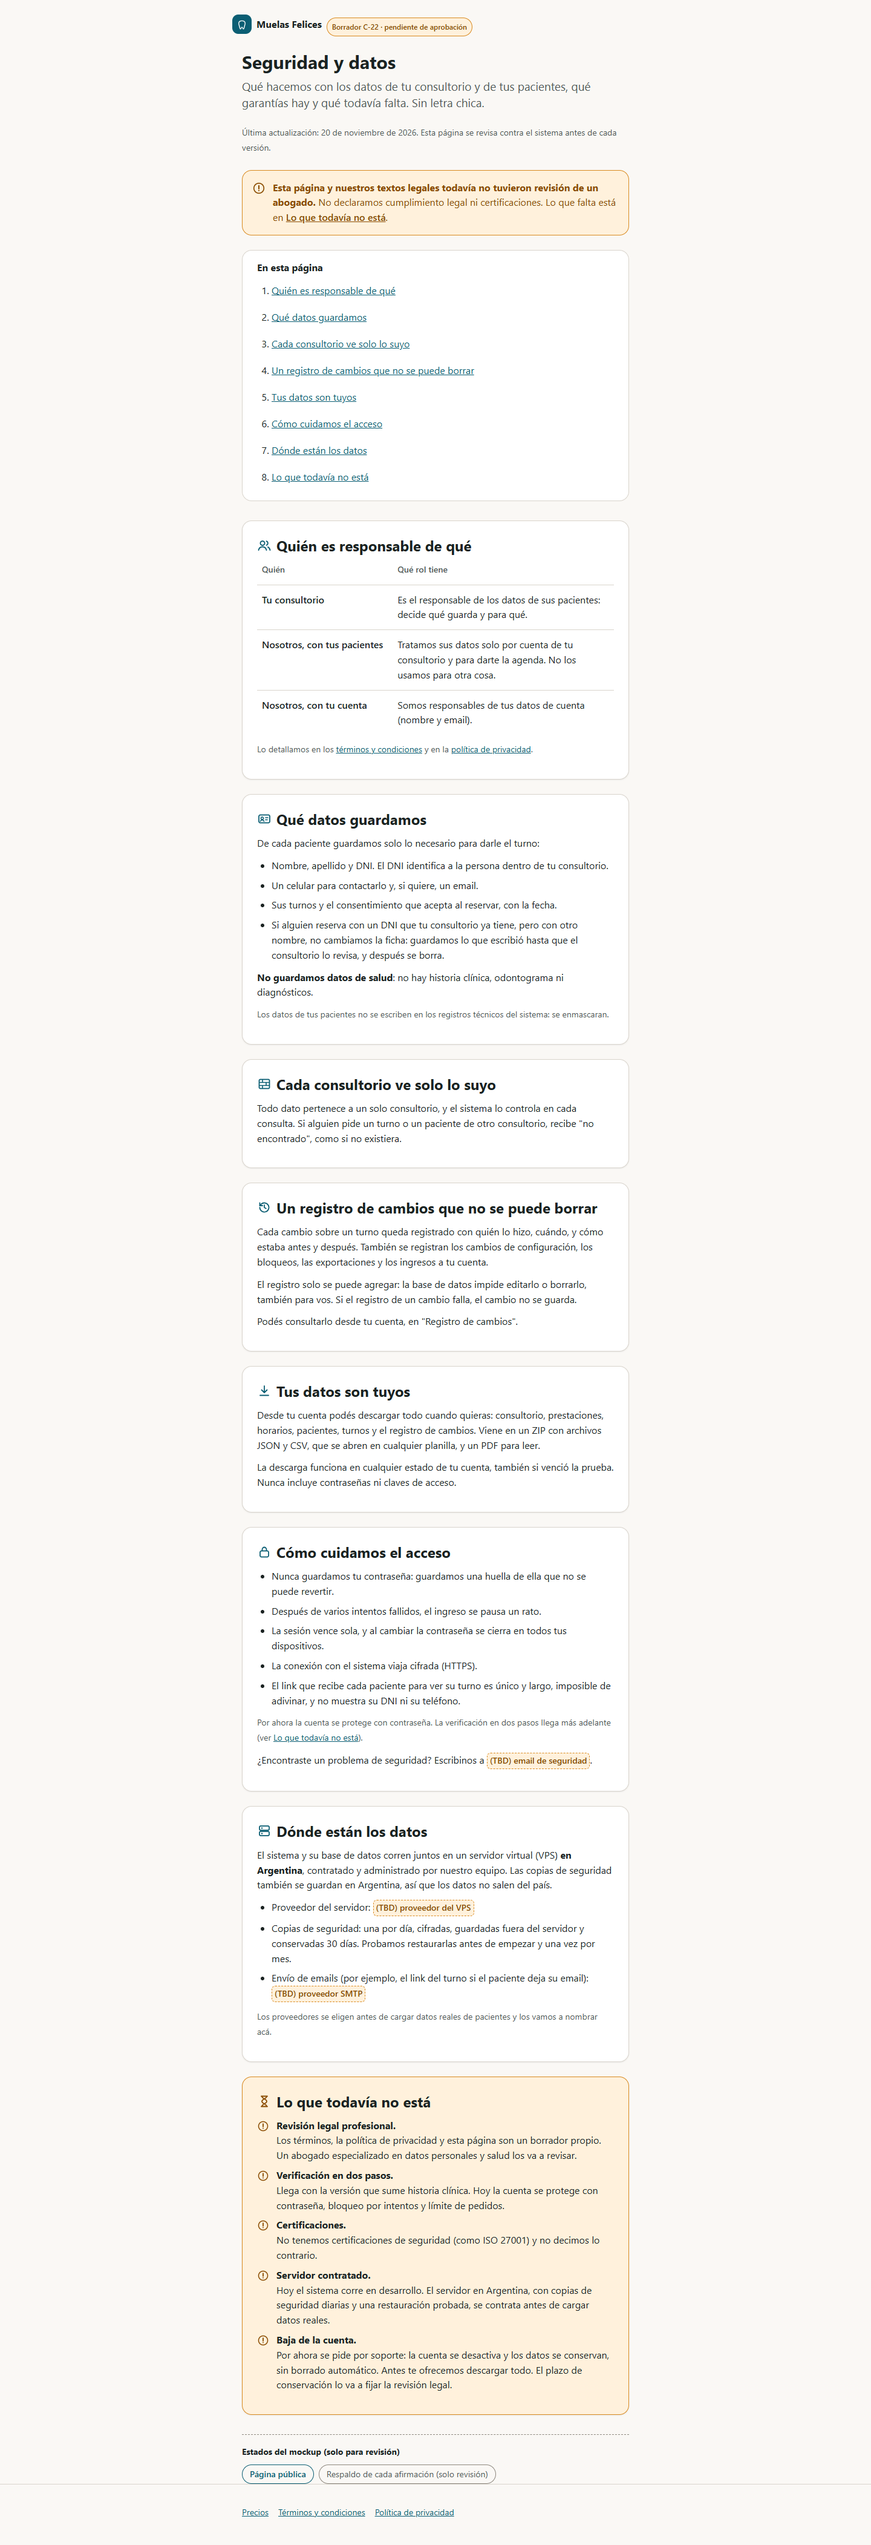
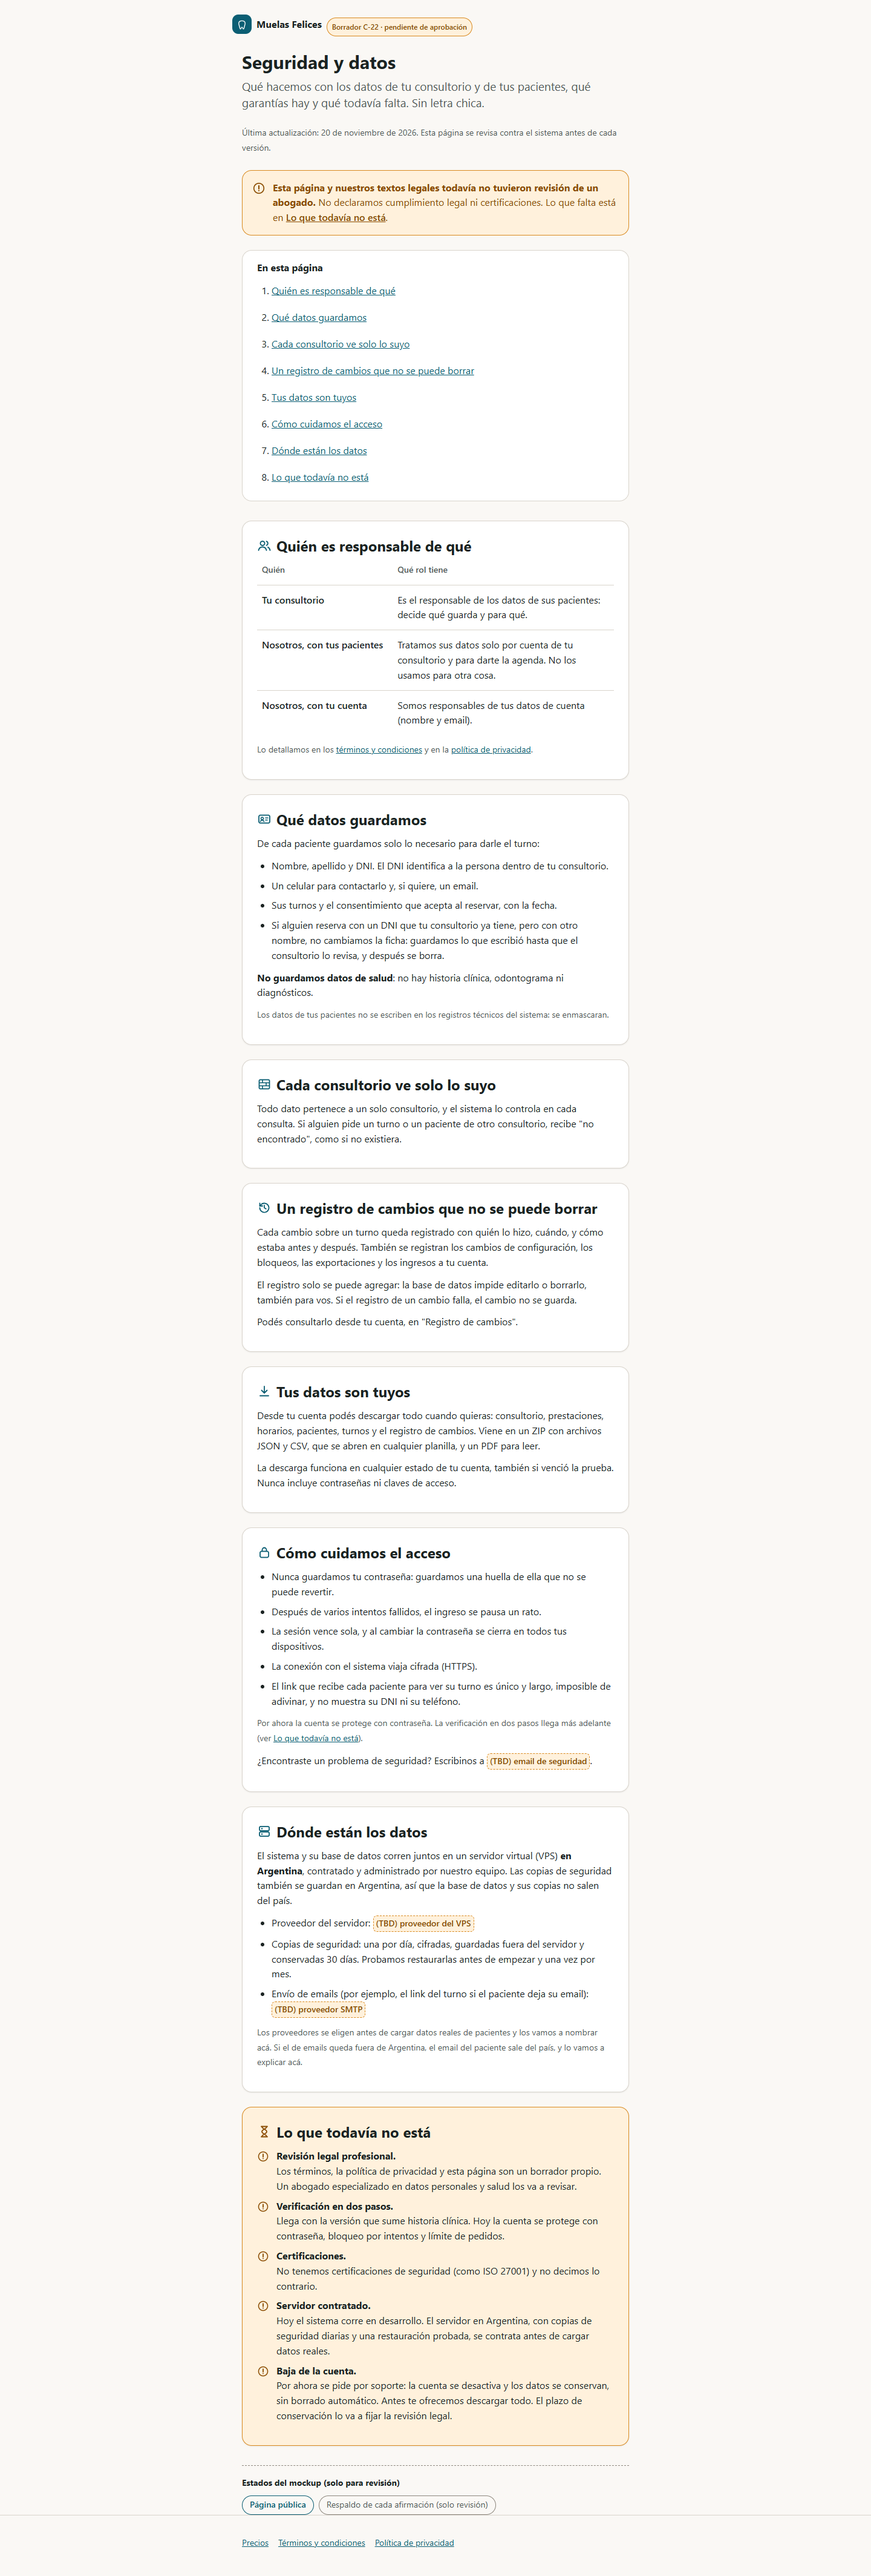
docs(seguridad): limitar "no salen del país" a la base y sus copias (C-22)
- "Dónde están los datos": la base y sus copias no salen del país; si el
  proveedor SMTP queda fuera de Argentina, el email del paciente sí sale
  y se explica en la página (DD-40, punto 4).
- README del mockup: las dos menciones restantes a PA-02 citan DD-40.
- tasks: el commit de cierre va antes de pedir la revisión (#45).
- Capturas renderizadas de nuevo (390x844 y 1440x900).

Changed region(s): [[0.2812, 0.0, 0.7188, 0.9969]]

diff --git a/openspec/changes/pagina-seguridad/mockups/seguridad.html b/openspec/changes/pagina-seguridad/mockups/seguridad.html
@@ -118,14 +118,14 @@
 
   <section class="seccion" id="hosting" aria-labelledby="host-t">
     <h2 id="host-t"><svg aria-hidden="true"><use href="#i-server"/></svg>Dónde están los datos</h2>
-    <p>El sistema y su base de datos corren juntos en un servidor virtual (VPS) <strong>en Argentina</strong>, contratado y administrado por nuestro equipo. Las copias de seguridad también se guardan en Argentina, así que los datos no salen del país.</p>
+    <p>El sistema y su base de datos corren juntos en un servidor virtual (VPS) <strong>en Argentina</strong>, contratado y administrado por nuestro equipo. Las copias de seguridad también se guardan en Argentina, así que la base de datos y sus copias no salen del país.</p>
     <ul>
       <li>Proveedor del servidor: <span class="tbd">(TBD) proveedor del VPS</span></li>
       <li>Copias de seguridad: una por día, cifradas, guardadas fuera del servidor y conservadas 30 días. Probamos restaurarlas antes de empezar y una vez por mes.</li>
       <li>Envío de emails (por ejemplo, el link del turno si el paciente deja su email): <span class="tbd">(TBD) proveedor SMTP</span></li>
     </ul>
-    <p class="nota">Los proveedores se eligen antes de cargar datos reales de pacientes y los vamos a nombrar acá.</p>
-    <div class="respaldo" data-solo="respaldo"><b>Respaldo</b><ul><li>Docker Compose con Postgres en un VPS (DD-25), en Argentina con los backups (DD-40, LG-09): sin transferencia internacional.</li><li>Política de backups de DD-40: diario, cifrado, fuera del VPS, retención de 30 días y restauración de prueba antes del lanzamiento y mensual.</li><li>Proveedor del VPS y proveedor SMTP (DD-15, DD-26): criterio de salida de C-23 (DD-40), <strong>bloquean la publicación</strong> hasta elegirse.</li></ul></div>
+    <p class="nota">Los proveedores se eligen antes de cargar datos reales de pacientes y los vamos a nombrar acá. Si el de emails queda fuera de Argentina, el email del paciente sale del país, y lo vamos a explicar acá.</p>
+    <div class="respaldo" data-solo="respaldo"><b>Respaldo</b><ul><li>Docker Compose con Postgres en un VPS (DD-25), en Argentina con los backups (DD-40, LG-09): la base no tiene transferencia internacional. El email del paciente (DD-26) sí la tendría si el proveedor SMTP queda fuera de Argentina (DD-40, punto 4).</li><li>Política de backups de DD-40: diario, cifrado, fuera del VPS, retención de 30 días y restauración de prueba antes del lanzamiento y mensual.</li><li>Proveedor del VPS y proveedor SMTP (DD-15, DD-26): criterio de salida de C-23 (DD-40), <strong>bloquean la publicación</strong> hasta elegirse.</li></ul></div>
   </section>
 
   <section class="seccion falta" id="falta" aria-labelledby="falta-t">

diff --git a/openspec/changes/pagina-seguridad/mockups/README.md b/openspec/changes/pagina-seguridad/mockups/README.md
@@ -31,16 +31,16 @@ Maxi aprobó las seis decisiones en la revisión de #40 (2026-11-20).
 
 1. **Contenido en una fuente versionada que se compila con la página** (RN-PL-06: "fuente editable versionada, no hardcodeado en componentes"). Propuesta: un Markdown o YAML en el repo (por ejemplo `frontend/src/contenido/seguridad.md`) con la fecha de actualización, que el frontend convierte en la página al compilar. Así no hace falta un endpoint, no hay estados de carga ni de error, y cada cambio de texto pasa por un PR con revisión. El test de US-062 compara la página con esa fuente.
 2. **El aviso de "sin revisión legal" va arriba de todo**, antes del índice, y lleva a "Lo que todavía no está". Es lo primero que tiene que saber quien evalúa el producto (RN-PL-05, LG-10).
-3. **"Lo que todavía no está" es una sección propia**, con el mismo color de advertencia del aviso, ícono y texto en cada ítem (no solo color). Incluye: revisión legal (DD-28), verificación en dos pasos (DD-35), certificaciones (LG-10), país del servidor y backups (PA-02) y la baja de la cuenta con conservación de datos (DD-29, LG-08).
+3. **"Lo que todavía no está" es una sección propia**, con el mismo color de advertencia del aviso, ícono y texto en cada ítem (no solo color). Incluye: revisión legal (DD-28), verificación en dos pasos (DD-35), certificaciones (LG-10), país del servidor y backups (PA-02; desde #44, "Servidor contratado", por DD-40) y la baja de la cuenta con conservación de datos (DD-29, LG-08).
 4. **Lenguaje llano**: "una huella que no se puede revertir" en vez de "BCrypt" (es un hash, no un cifrado: no se puede volver atrás); "no encontrado, como si no existiera" en vez de "404". Los nombres técnicos quedan solo en el respaldo.
 5. **Afirmaciones que dependen de changes futuros**, marcadas en el respaldo: la exportación (C-19, dependencia de C-22), la consulta del registro de cambios (C-18) y el token del link del paciente (C-15/C-16). Si alguno no está `[x]` al implementar C-22, la frase se saca (RN-PL-06).
 6. **Proveedores que tratan datos**: se nombran el VPS y el proveedor de email (que recibe el email del paciente cuando lo deja, DD-26). No se afirma "sin terceros".
 
 ## Bloqueos para publicar
 
-- **Criterio de salida de C-23 (DD-40)**: el país ya está decidido (servidor y backups en Argentina, con la política de backups de DD-40). Quedan como `(TBD)` el proveedor del VPS y el proveedor SMTP. La página no se publica con esos marcadores. *Texto actualizado en la revisión de la propuesta (#44), a pedido de Maxi, sobre la versión aprobada `1609d16`.*
+- **Criterio de salida de C-23 (DD-40)**: el país ya está decidido (servidor y backups en Argentina, con la política de backups de DD-40). Quedan como `(TBD)` el proveedor del VPS y el proveedor SMTP. La página no se publica con esos marcadores. "No salen del país" se limita a la base y sus copias: si el proveedor SMTP queda fuera de Argentina, el email del paciente sí sale (DD-40, punto 4). *Texto actualizado en la revisión de la propuesta (#44), a pedido de Maxi, sobre la versión aprobada `1609d16`.*
 - **TLS en el VPS**: "la conexión viaja cifrada (HTTPS)" vale cuando el VPS tenga TLS configurado. Hay que confirmarlo antes de publicar.
-- **Email de seguridad** (decidido por Maxi en #40): va en "Cómo cuidamos el acceso" como `(TBD)`. Se define junto con el dominio (DD-34) y bloquea la publicación igual que PA-02.
+- **Email de seguridad** (decidido por Maxi en #40): va en "Cómo cuidamos el acceso" como `(TBD)`. Se define junto con el dominio (DD-34) y bloquea la publicación (criterio de salida de C-23, DD-40).
 
 `08_arquitectura_propuesta.md` §Seguridad ya no dice "sin DNI": se corrigió en este PR citando DD-24.
 

diff --git a/openspec/changes/pagina-seguridad/tasks.md b/openspec/changes/pagina-seguridad/tasks.md
@@ -32,5 +32,5 @@
 
 ## Workflow follow-up
 
-- Cuando Maxi apruebe el PR, el autor suma en el mismo PR el commit de cierre: `[x]` en `CHANGES.md` y `openspec archive pagina-seguridad` (CLAUDE.md, ciclo del PR).
+- Antes de pedir la revisión del PR de implementación, con todo en verde, el autor suma en el mismo PR el commit de cierre: `[x]` en `CHANGES.md` y `openspec archive pagina-seguridad` (CLAUDE.md, ciclo del PR, #45).
 - La publicación de `/seguridad` espera a que `npm run seguridad:revisar` pase y se cumpla el criterio de salida de C-23 (DD-40).
